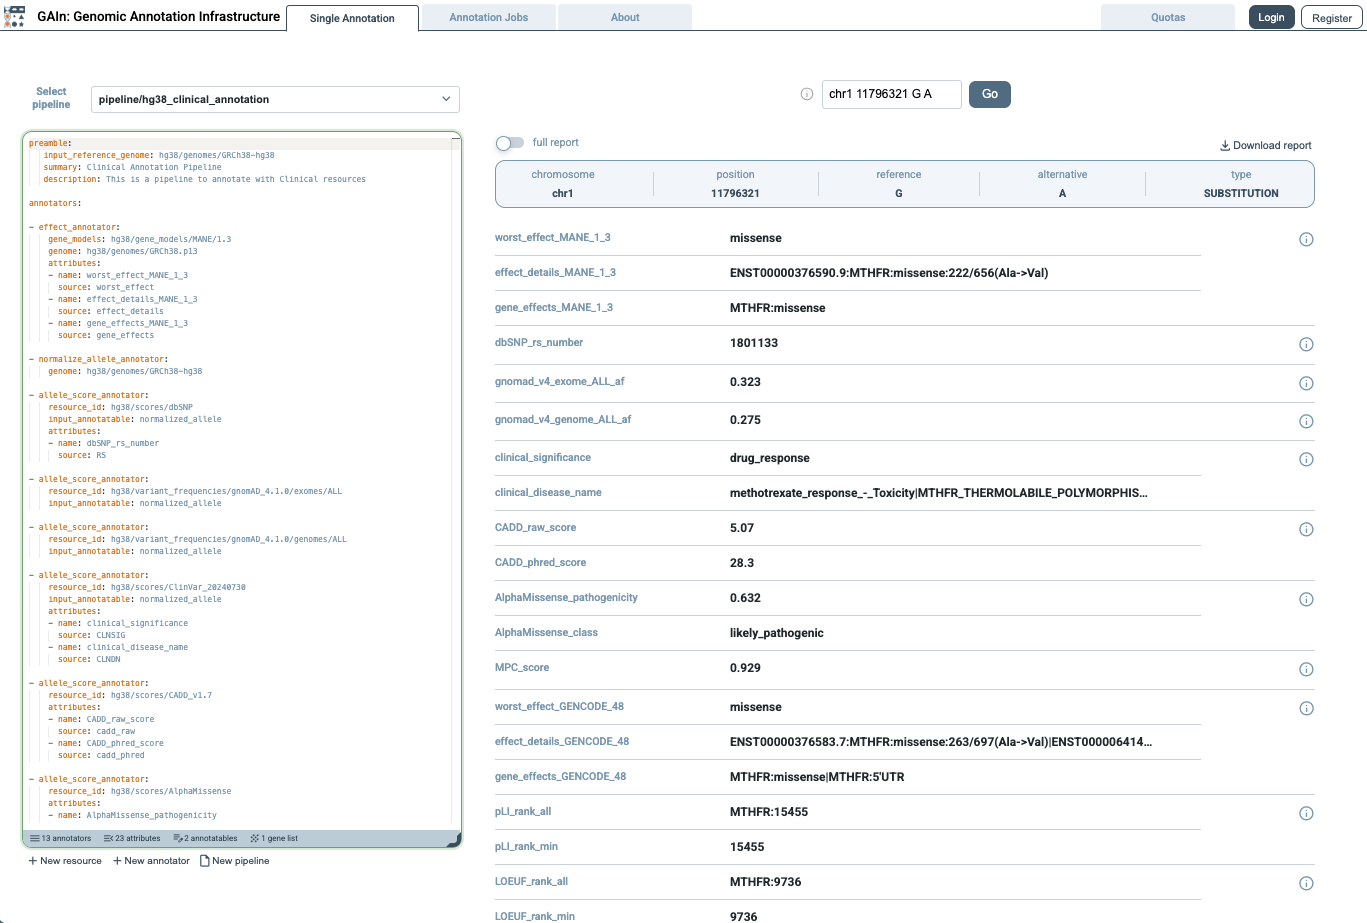
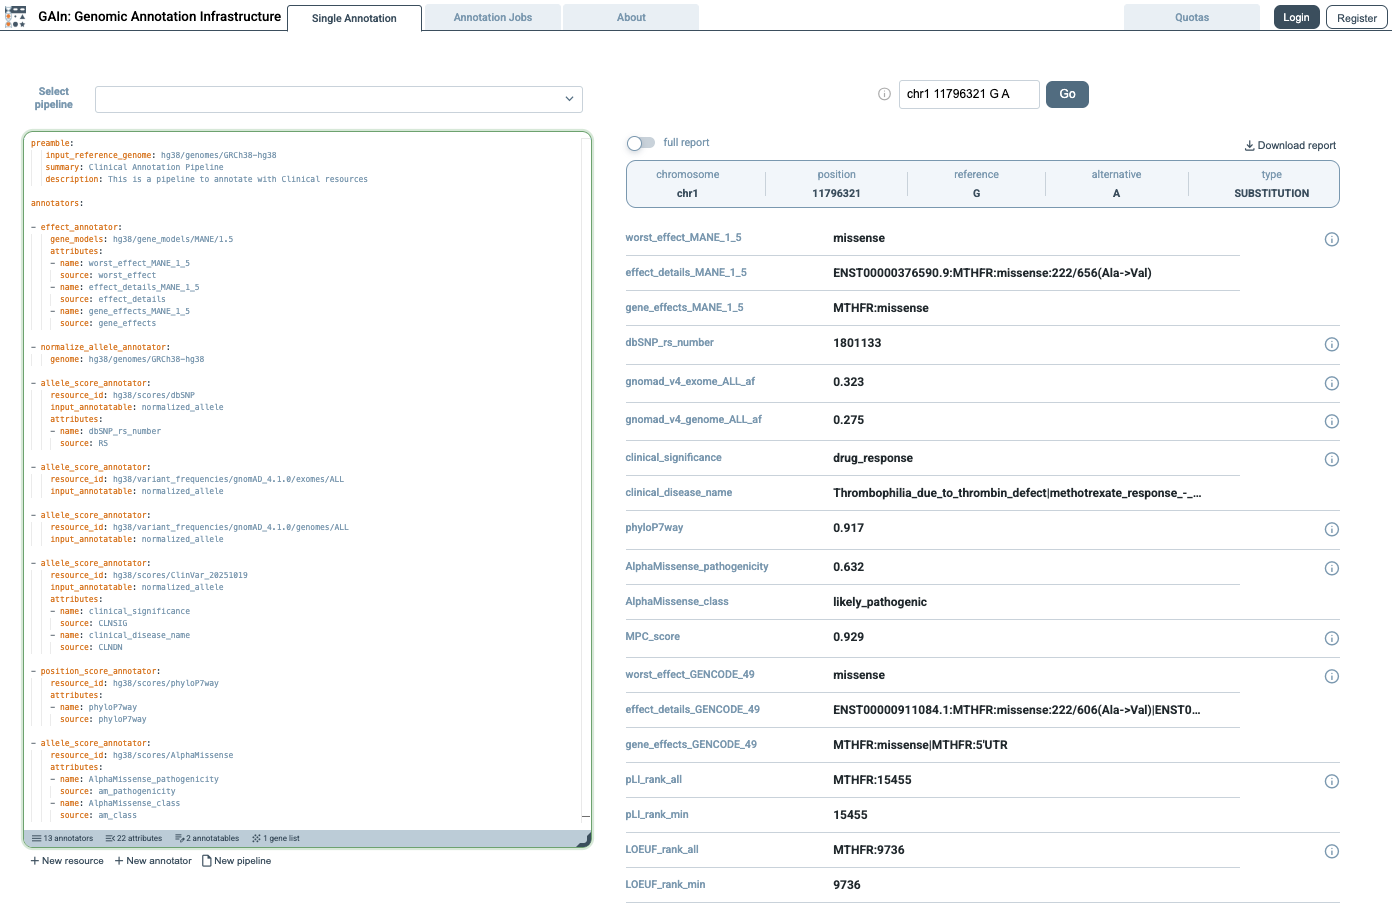
updated figures for web getting started

diff --git a/docs/source/gain_getting_started_web.rst b/docs/source/gain_getting_started_web.rst
@@ -43,7 +43,7 @@ to be annotated at once. In this mode, users upload a file in tabular or VCF for
 containing annotatables (variants, positions, or regions) with the required coordinate 
 information. Click Annotation jobs on the right side of the page. 
 
-.. figure:: figures/GAInWeb5b.png
+.. figure:: figures/GAInWeb5.png
   :scale: 50 %
 
 
@@ -61,7 +61,7 @@ The file contains three variant annotatables, each described by the columns ``ch
 
 When the file is uploaded, GAIn automatically recognizes the ``chrom``, ``pos``, ``ref``, and ``alt`` columns because the file uses those exact column names. If the input file uses different column labels, users can manually specify which columns correspond to ``chrom``, ``pos``, ``ref``, and ``alt`` before creating the annotation job.
 
-.. figure:: figures/GAInWeb6b.png
+.. figure:: figures/GAInWeb6.png
   :scale: 50 %
 
 